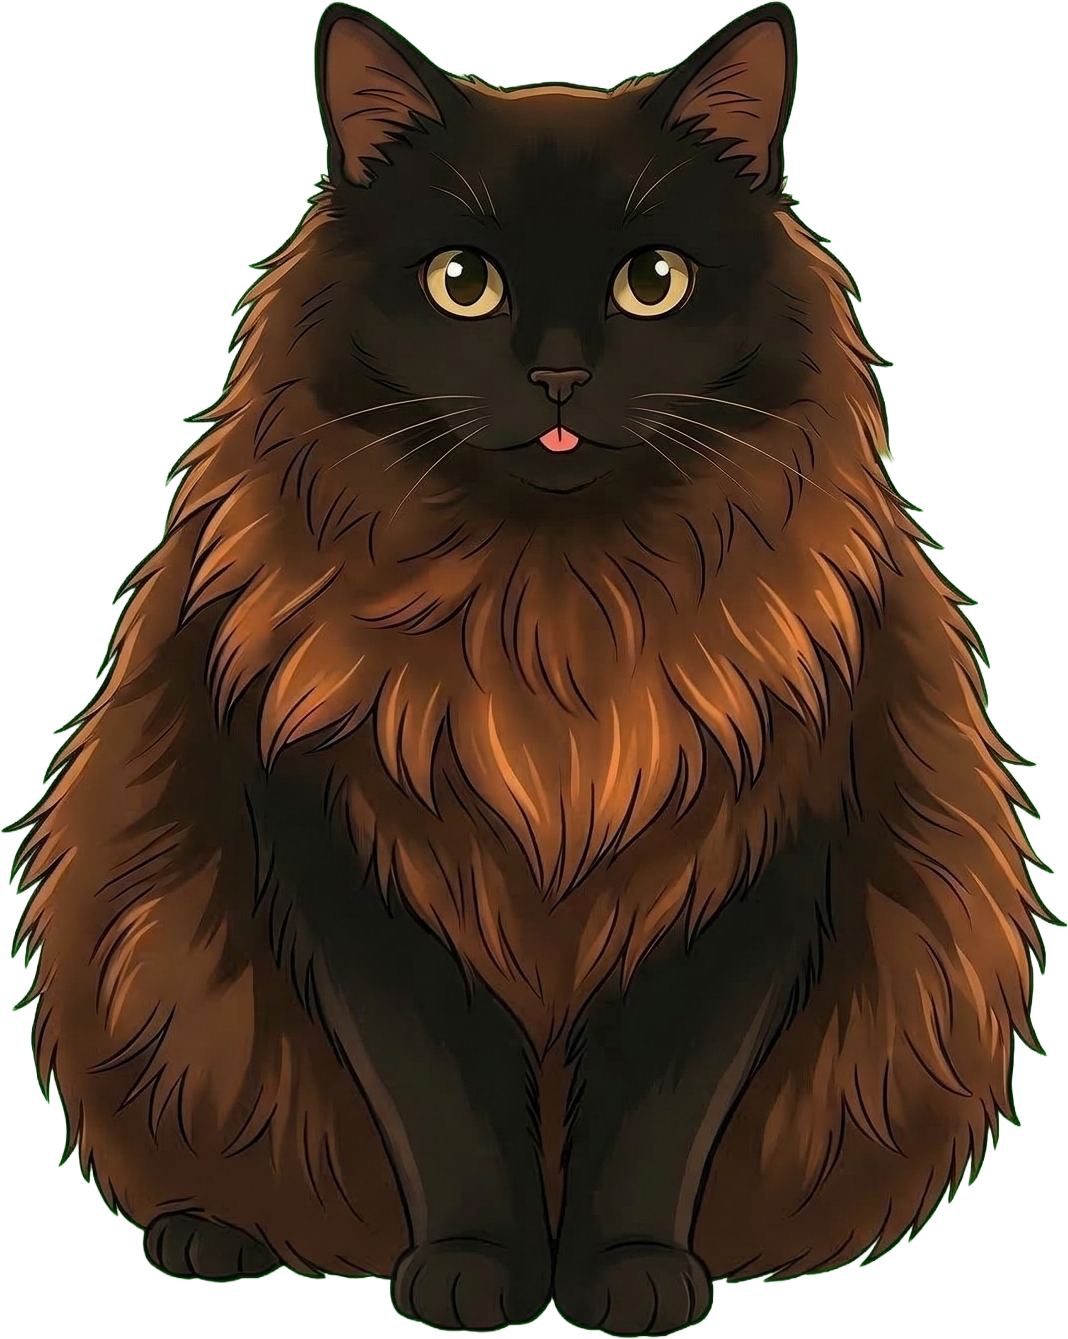
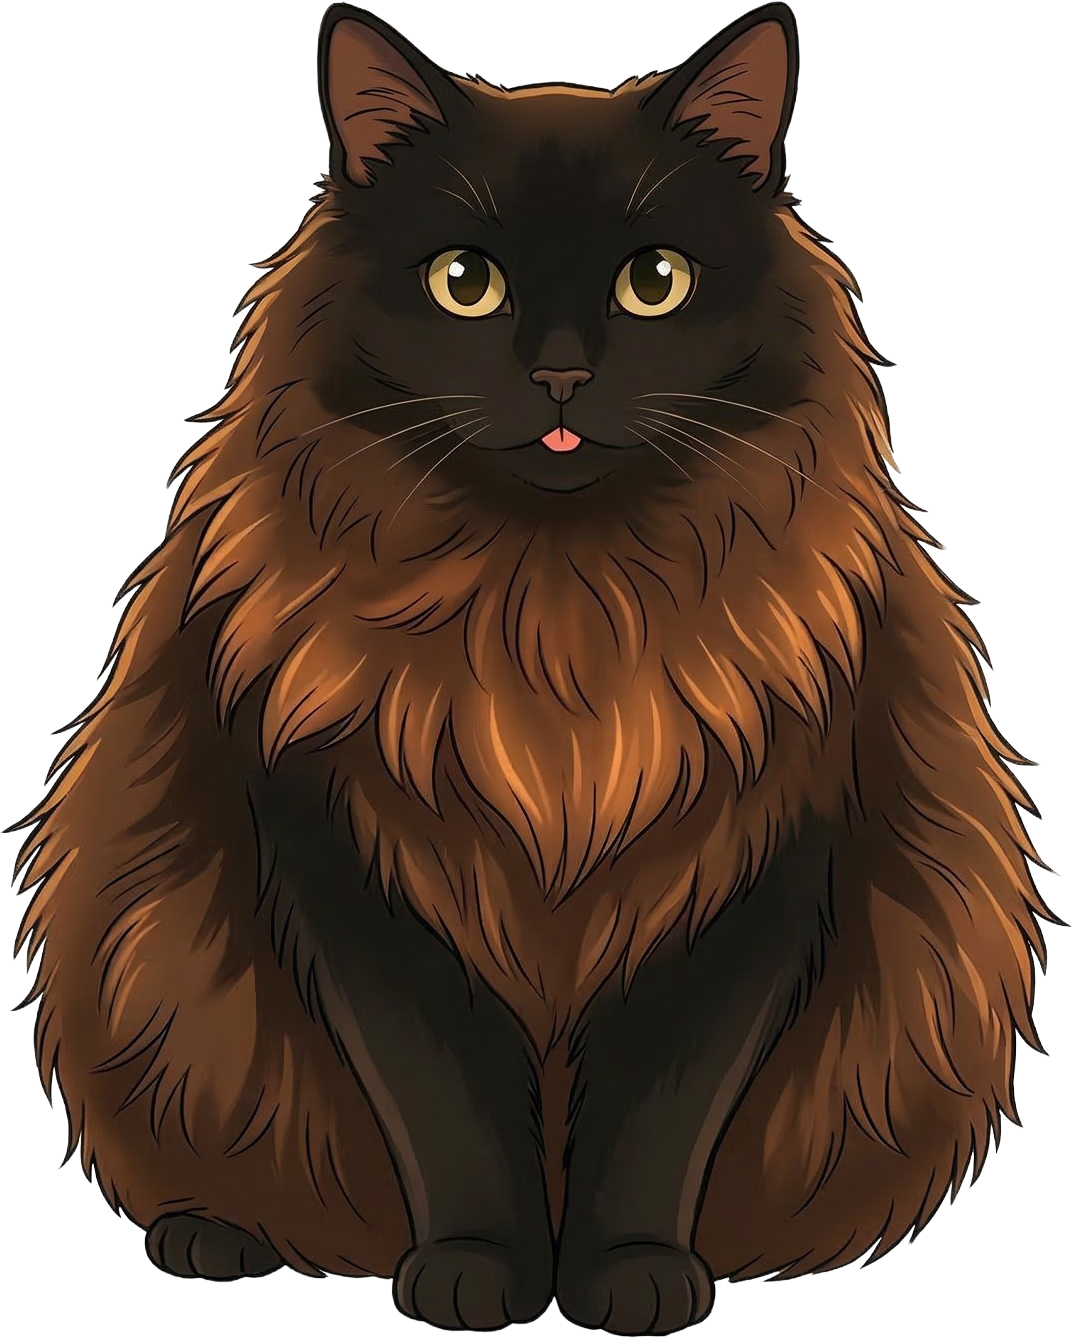
fix: update Greedo image and reduce label font size

diff --git a/app/lib/features/settings/ui/about_sheet.dart b/app/lib/features/settings/ui/about_sheet.dart
@@ -47,7 +47,7 @@ class AboutSheet extends StatelessWidget {
                 'GREEDO <3',
                 style: TextStyle(
                   color: AppTheme.accent,
-                  fontSize: 18,
+                  fontSize: 13,
                   fontWeight: FontWeight.bold,
                   letterSpacing: 1.2,
                 ),
